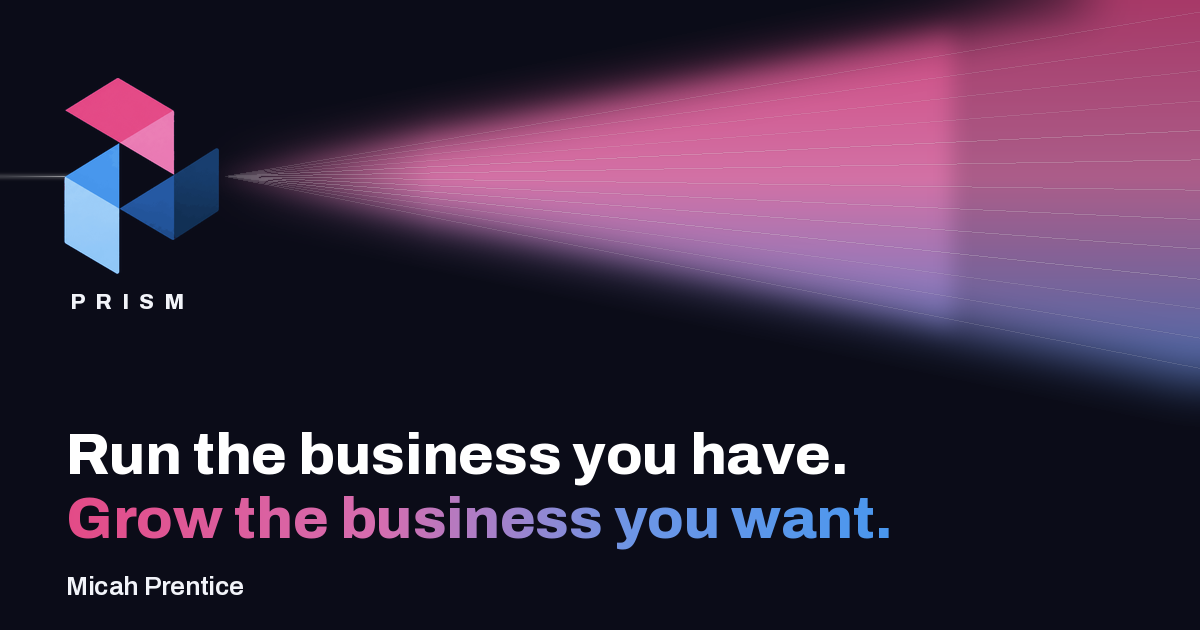
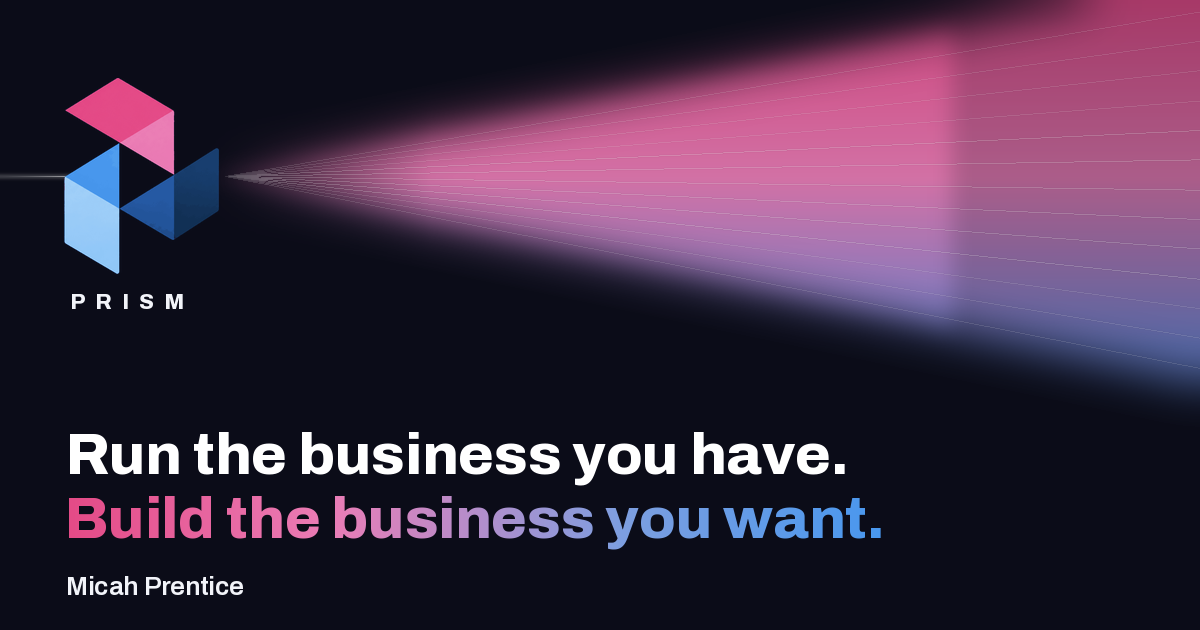
Lead public pages with "Build the business you want."
Replace the old "Grow" and "reimagined" lines so the landing hero, card, vCard, and link previews all use the same two-line message.

Changed region(s): [[0.0617, 0.7841, 0.74, 0.8746]]

diff --git a/index.html b/index.html
@@ -3,22 +3,24 @@
 <head>
 <meta charset="utf-8">
 <meta name="viewport" content="width=device-width, initial-scale=1">
-<title>Prism — launching soon</title>
-<meta name="description" content="Prism reimagines the home-service business — quoting, scheduling, dispatch, and invoicing in one AI-native system. Request early access before launch.">
+<title>Prism — Run the business you have. Build the business you want.</title>
+<meta name="description" content="Run the business you have. Build the business you want. Quoting, scheduling, dispatch, and invoicing in one system, so today's jobs stay on track. Request early access.">
 
 <!-- Social preview. Points at getprismpro.com — the image only renders once the site is live there. -->
 <meta property="og:type" content="website">
 <meta property="og:site_name" content="Prism">
-<meta property="og:title" content="Prism — the home-service business, reimagined.">
-<meta property="og:description" content="Quoting, scheduling, dispatch, and invoicing rebuilt around the way the work actually happens. Launching soon.">
+<meta property="og:title" content="Run the business you have. Build the business you want.">
+<meta property="og:description" content="Prism helps owners run the business they have and build the one they want. Quoting, scheduling, dispatch, and invoicing in one system. Launching soon.">
 <meta property="og:url" content="https://getprismpro.com/">
 <meta property="og:image" content="https://getprismpro.com/og-image.png">
 <meta property="og:image:width" content="1200">
 <meta property="og:image:height" content="630">
+<meta property="og:image:alt" content="Prism. Run the business you have. Build the business you want.">
 <meta name="twitter:card" content="summary_large_image">
-<meta name="twitter:title" content="Prism — the home-service business, reimagined.">
-<meta name="twitter:description" content="Quoting, scheduling, dispatch, and invoicing rebuilt around the way the work actually happens. Launching soon.">
+<meta name="twitter:title" content="Run the business you have. Build the business you want.">
+<meta name="twitter:description" content="Prism helps owners run the business they have and build the one they want. Quoting, scheduling, dispatch, and invoicing in one system. Launching soon.">
 <meta name="twitter:image" content="https://getprismpro.com/og-image.png">
+<meta name="twitter:image:alt" content="Prism. Run the business you have. Build the business you want.">
 <link rel="canonical" href="https://getprismpro.com/">
 <meta name="theme-color" content="#0B0C18">
 <link rel="icon" href="favicon.png" type="image/png" sizes="256x256">
@@ -106,8 +108,8 @@
   .mark{
     display:block;
     width:auto;
-    height:clamp(76px,13vw,116px);
-    margin:0 auto clamp(20px,3.5vw,34px);
+    height:clamp(56px,10vw,88px);
+    margin:0 auto clamp(6px,1.4vw,12px);
     opacity:0;
     animation:mark-in .7s cubic-bezier(.2,.7,.3,1) .05s forwards;
   }
@@ -117,7 +119,8 @@
     position:relative;
     display:grid;
     place-items:center;
-    padding:clamp(6px,2vw,18px) 0 clamp(14px,3vw,26px);
+    min-height:clamp(78px,12vw,128px);
+    padding:clamp(2px,1vw,8px) 0 clamp(4px,1vw,10px);
   }
 
   /* light entering left, spectrum leaving right */
@@ -145,13 +148,13 @@
   }
 
   .pro{
-    margin-top:clamp(5px,1vw,11px);
+    margin-top:clamp(3px,.6vw,6px);
     text-align:center;
-    font-size:clamp(15px,2.8vw,32px);
+    font-size:clamp(10px,1.3vw,14px);
     font-weight:700;
     font-stretch:112%;
     line-height:1;
-    letter-spacing:.06em;
+    letter-spacing:.08em;
     color:var(--blue-soft);
     opacity:.94;
   }
@@ -159,7 +162,7 @@
   .wordmark{
     position:relative;
     margin:0;
-    font-size:clamp(52px,13.5vw,148px);
+    font-size:clamp(16px,2.8vw,36px);
     font-weight:800;
     font-stretch:125%;
     line-height:.86;
@@ -177,21 +180,34 @@
     -webkit-text-fill-color:transparent;
   }
 
-  .tagline{
-    max-width:34ch;
-    margin:clamp(16px,3vw,26px) auto 0;
+  .headline{
+    margin:clamp(16px,2.6vw,26px) auto 0;
     text-align:center;
-    font-size:clamp(17px,2.4vw,21px);
-    font-weight:500;
-    line-height:1.35;
-    letter-spacing:-.01em;
+    font-size:clamp(18.5px,5.7vw,48px);
+    font-weight:800;
+    font-stretch:100%;
+    line-height:1.06;
+    letter-spacing:-.034em;
     color:var(--ink);
   }
+  .headline .run,
+  .headline .build{
+    display:block;
+    white-space:nowrap;
+  }
+  .headline .build{
+    margin-top:.06em;
+    background:linear-gradient(90deg,#E44B87 0%,#EB7DB6 32%,#7E9FE0 68%,#4998EF 100%);
+    -webkit-background-clip:text;
+    background-clip:text;
+    color:transparent;
+    -webkit-text-fill-color:transparent;
+  }
   .subline{
-    max-width:52ch;
-    margin:12px auto 0;
+    max-width:44ch;
+    margin:14px auto 0;
     text-align:center;
-    font-size:15px;
+    font-size:15.5px;
     line-height:1.55;
     color:var(--ink-mid);
   }
@@ -363,6 +379,11 @@
   @media (max-width:560px){
     .blocks{grid-template-columns:repeat(2,1fr)}
     .wordmark{letter-spacing:-.03em}
+    body{padding:12px 10px}
+    .frame{padding:22px 12px 26px}
+  }
+  @media (min-width:900px){
+    .headline{font-stretch:108%}
   }
 
   @media (prefers-reduced-motion:reduce){
@@ -410,13 +431,16 @@
     </svg>
 
     <div class="lockup">
-      <h1 class="wordmark">PRISM<span class="sr"> Pro</span></h1>
+      <p class="wordmark">PRISM<span class="sr"> Pro</span></p>
       <div class="pro" aria-hidden="true">PRO</div>
     </div>
   </div>
 
-  <p class="tagline">The home-service business, reimagined.</p>
-  <p class="subline">Quoting, scheduling, dispatch, and invoicing rebuilt around the way the work actually happens. One system that runs the office so your crews stay on the truck.</p>
+  <h1 class="headline">
+    <span class="run">Run the business you have.</span>
+    <span class="build">Build the business you want.</span>
+  </h1>
+  <p class="subline">Quoting, scheduling, dispatch, and invoicing in one system. Today's jobs stay on track, so you can build what's next.</p>
 
   <section class="countdown" aria-label="Time until launch">
     <div class="blocks">

diff --git a/card/index.html b/card/index.html
@@ -4,24 +4,24 @@
 <meta charset="utf-8">
 <meta name="viewport" content="width=device-width, initial-scale=1, viewport-fit=cover">
 <title>Micah Prentice | Prism</title>
-<meta name="description" content="Run the business you have. Grow the business you want.">
+<meta name="description" content="Run the business you have. Build the business you want.">
 <meta name="theme-color" content="#0B0C18">
 <meta property="og:type" content="website">
 <meta property="og:site_name" content="Prism">
 <meta property="og:title" content="Micah Prentice | Prism">
-<meta property="og:description" content="Run the business you have. Grow the business you want.">
+<meta property="og:description" content="Run the business you have. Build the business you want.">
 <meta property="og:url" content="https://getprismpro.com/card/">
 <meta property="og:image" content="https://getprismpro.com/card/og.png">
 <meta property="og:image:secure_url" content="https://getprismpro.com/card/og.png">
 <meta property="og:image:type" content="image/png">
 <meta property="og:image:width" content="1200">
 <meta property="og:image:height" content="630">
-<meta property="og:image:alt" content="Micah Prentice, Prism. Run the business you have. Grow the business you want.">
+<meta property="og:image:alt" content="Micah Prentice, Prism. Run the business you have. Build the business you want.">
 <meta name="twitter:card" content="summary_large_image">
 <meta name="twitter:title" content="Micah Prentice | Prism">
-<meta name="twitter:description" content="Run the business you have. Grow the business you want.">
+<meta name="twitter:description" content="Run the business you have. Build the business you want.">
 <meta name="twitter:image" content="https://getprismpro.com/card/og.png">
-<meta name="twitter:image:alt" content="Micah Prentice, Prism. Run the business you have. Grow the business you want.">
+<meta name="twitter:image:alt" content="Micah Prentice, Prism. Run the business you have. Build the business you want.">
 <link rel="canonical" href="https://getprismpro.com/card/">
 <link rel="apple-touch-icon" href="apple-touch-icon.png">
 <link rel="icon" href="prism-mark.png" type="image/png">
@@ -70,16 +70,22 @@
   }
   h1{
     position:relative;z-index:1;
-    margin:8px 22px 0;
-    max-width:12.2em;
-    font-size:clamp(32px,8.4vw,40px);
-    font-weight:800;font-stretch:118%;
-    line-height:1.02;letter-spacing:-.03em;
+    margin:10px 14px 0;
+    max-width:none;
+    font-size:clamp(17.5px,6.15vw,28px);
+    font-weight:800;font-stretch:96%;
+    line-height:1.05;letter-spacing:-.034em;
   }
-  h1 .grow{
-    display:block;margin-top:4px;font-style:normal;
+  h1 .run,
+  h1 .build{
+    display:block;
+    white-space:nowrap;
+  }
+  h1 .build{
+    margin-top:3px;font-style:normal;
     background:linear-gradient(90deg,#E44B87 0%,#EB7DB6 32%,#7E9FE0 68%,#4998EF 100%);
     -webkit-background-clip:text;background-clip:text;color:transparent;
+    -webkit-text-fill-color:transparent;
   }
   .who{padding:26px 6px 0}
   h2{
@@ -111,10 +117,10 @@
   .save svg{width:22px;height:22px}
   .save:hover{filter:brightness(1.03)}
   .save:active{transform:translateY(1px)}
-  .secondary{display:grid;grid-template-columns:repeat(3,1fr);gap:8px;margin-top:10px}
+  .secondary{display:grid;grid-template-columns:repeat(3,minmax(0,1fr));gap:8px;margin-top:10px}
   .secondary a{
     display:flex;align-items:center;justify-content:center;gap:8px;
-    min-height:48px;padding:10px 8px;border-radius:14px;
+    min-height:48px;min-width:0;padding:10px 6px;border-radius:14px;
     border:1px solid var(--line);background:rgba(255,255,255,.03);
     color:var(--ink);text-decoration:none;
     font-size:14px;font-weight:600;
@@ -131,7 +137,7 @@
     .stage{height:320px}
     .mark{left:48px;top:48px;height:156px}
     .wm{left:52px;top:218px;font-size:16px}
-    h1{margin:6px 52px 0;font-size:64px;max-width:11em}
+    h1{margin:8px 40px 0;font-size:clamp(34px,4.5vw,50px);font-stretch:106%;max-width:none}
     .after{
       display:grid;grid-template-columns:1.15fr .85fr;
       gap:36px;align-items:end;padding:8px 46px 0;
@@ -210,7 +216,7 @@
       <img class="mark" src="prism-mark.png" alt="Prism">
       <p class="wm">PRISM</p>
     </div>
-    <h1>Run the business you have.<span class="grow">Grow the business you want.</span></h1>
+    <h1><span class="run">Run the business you have.</span><span class="build">Build the business you want.</span></h1>
   </article>
 
   <div class="after">

diff --git a/prism-splash.html b/prism-splash.html
@@ -3,8 +3,8 @@
 <head>
 <meta charset="utf-8">
 <meta name="viewport" content="width=device-width, initial-scale=1">
-<title>Prism — launching soon</title>
-<meta name="description" content="Prism reimagines the home-service business — quoting, scheduling, dispatch, and invoicing in one AI-native system. Request early access before launch.">
+<title>Prism — Run the business you have. Build the business you want.</title>
+<meta name="description" content="Run the business you have. Build the business you want. Quoting, scheduling, dispatch, and invoicing in one system, so today's jobs stay on track. Request early access.">
 
 <!-- ============================================================
      TWO THINGS TO SET (both are right here):
@@ -84,7 +84,8 @@
     position:relative;
     display:grid;
     place-items:center;
-    padding:clamp(6px,2vw,18px) 0 clamp(14px,3vw,26px);
+    min-height:clamp(78px,12vw,128px);
+    padding:clamp(2px,1vw,8px) 0 clamp(4px,1vw,10px);
   }
 
   /* light entering left, spectrum leaving right */
@@ -109,7 +110,7 @@
   .wordmark{
     position:relative;
     margin:0;
-    font-size:clamp(52px,13.5vw,148px);
+    font-size:clamp(16px,2.8vw,36px);
     font-weight:800;
     font-stretch:125%;
     line-height:.86;
@@ -127,21 +128,34 @@
     -webkit-text-fill-color:transparent;
   }
 
-  .tagline{
-    max-width:34ch;
-    margin:clamp(16px,3vw,26px) auto 0;
+  .headline{
+    margin:clamp(16px,2.6vw,26px) auto 0;
     text-align:center;
-    font-size:clamp(17px,2.4vw,21px);
-    font-weight:500;
-    line-height:1.35;
-    letter-spacing:-.01em;
+    font-size:clamp(18.5px,5.7vw,48px);
+    font-weight:800;
+    font-stretch:100%;
+    line-height:1.06;
+    letter-spacing:-.034em;
     color:var(--ink);
   }
+  .headline .run,
+  .headline .build{
+    display:block;
+    white-space:nowrap;
+  }
+  .headline .build{
+    margin-top:.06em;
+    background:linear-gradient(90deg,#E44B87 0%,#EB7DB6 32%,#7E9FE0 68%,#4998EF 100%);
+    -webkit-background-clip:text;
+    background-clip:text;
+    color:transparent;
+    -webkit-text-fill-color:transparent;
+  }
   .subline{
-    max-width:52ch;
-    margin:12px auto 0;
+    max-width:44ch;
+    margin:14px auto 0;
     text-align:center;
-    font-size:15px;
+    font-size:15.5px;
     line-height:1.55;
     color:var(--ink-mid);
   }
@@ -313,6 +327,11 @@
   @media (max-width:560px){
     .blocks{grid-template-columns:repeat(2,1fr)}
     .wordmark{letter-spacing:-.03em}
+    body{padding:12px 10px}
+    .frame{padding:22px 12px 26px}
+  }
+  @media (min-width:900px){
+    .headline{font-stretch:108%}
   }
 
   @media (prefers-reduced-motion:reduce){
@@ -356,11 +375,14 @@
       </g>
     </svg>
 
-    <h1 class="wordmark">PRISM</h1>
+    <p class="wordmark">PRISM</p>
   </div>
 
-  <p class="tagline">The home-service business, reimagined.</p>
-  <p class="subline">Quoting, scheduling, dispatch, and invoicing rebuilt around the way the work actually happens. One system that runs the office so your crews stay on the truck.</p>
+  <h1 class="headline">
+    <span class="run">Run the business you have.</span>
+    <span class="build">Build the business you want.</span>
+  </h1>
+  <p class="subline">Quoting, scheduling, dispatch, and invoicing in one system. Today's jobs stay on track, so you can build what's next.</p>
 
   <section class="countdown" aria-label="Time until launch">
     <div class="blocks">
